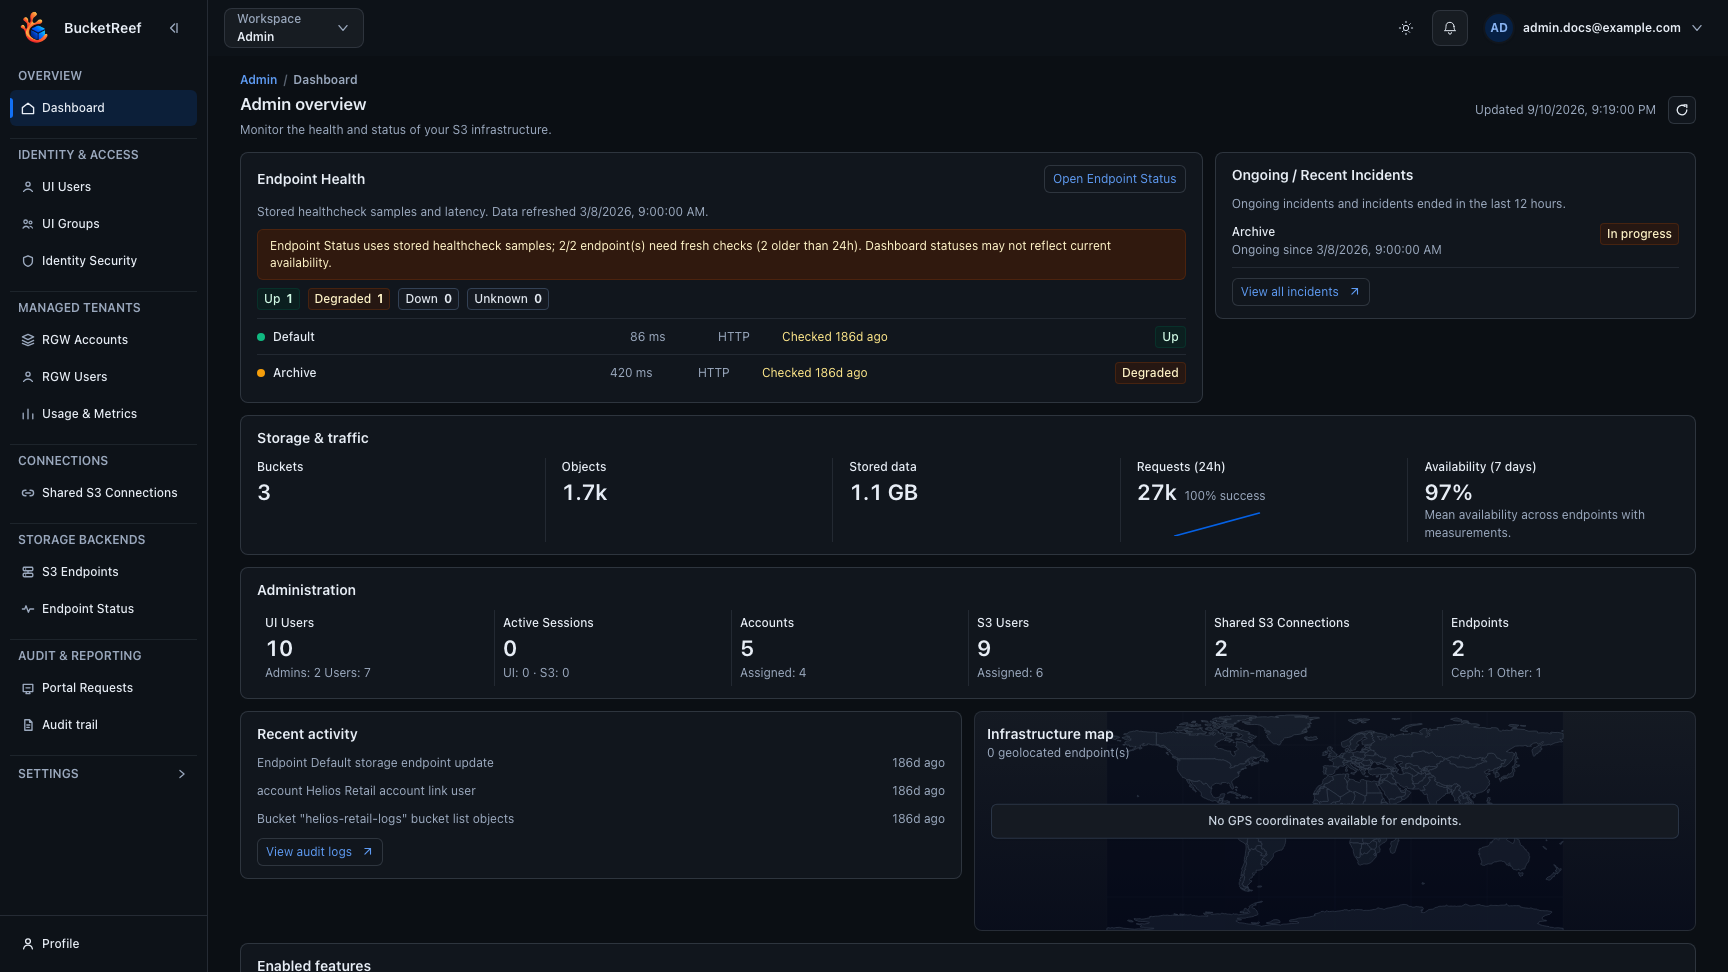
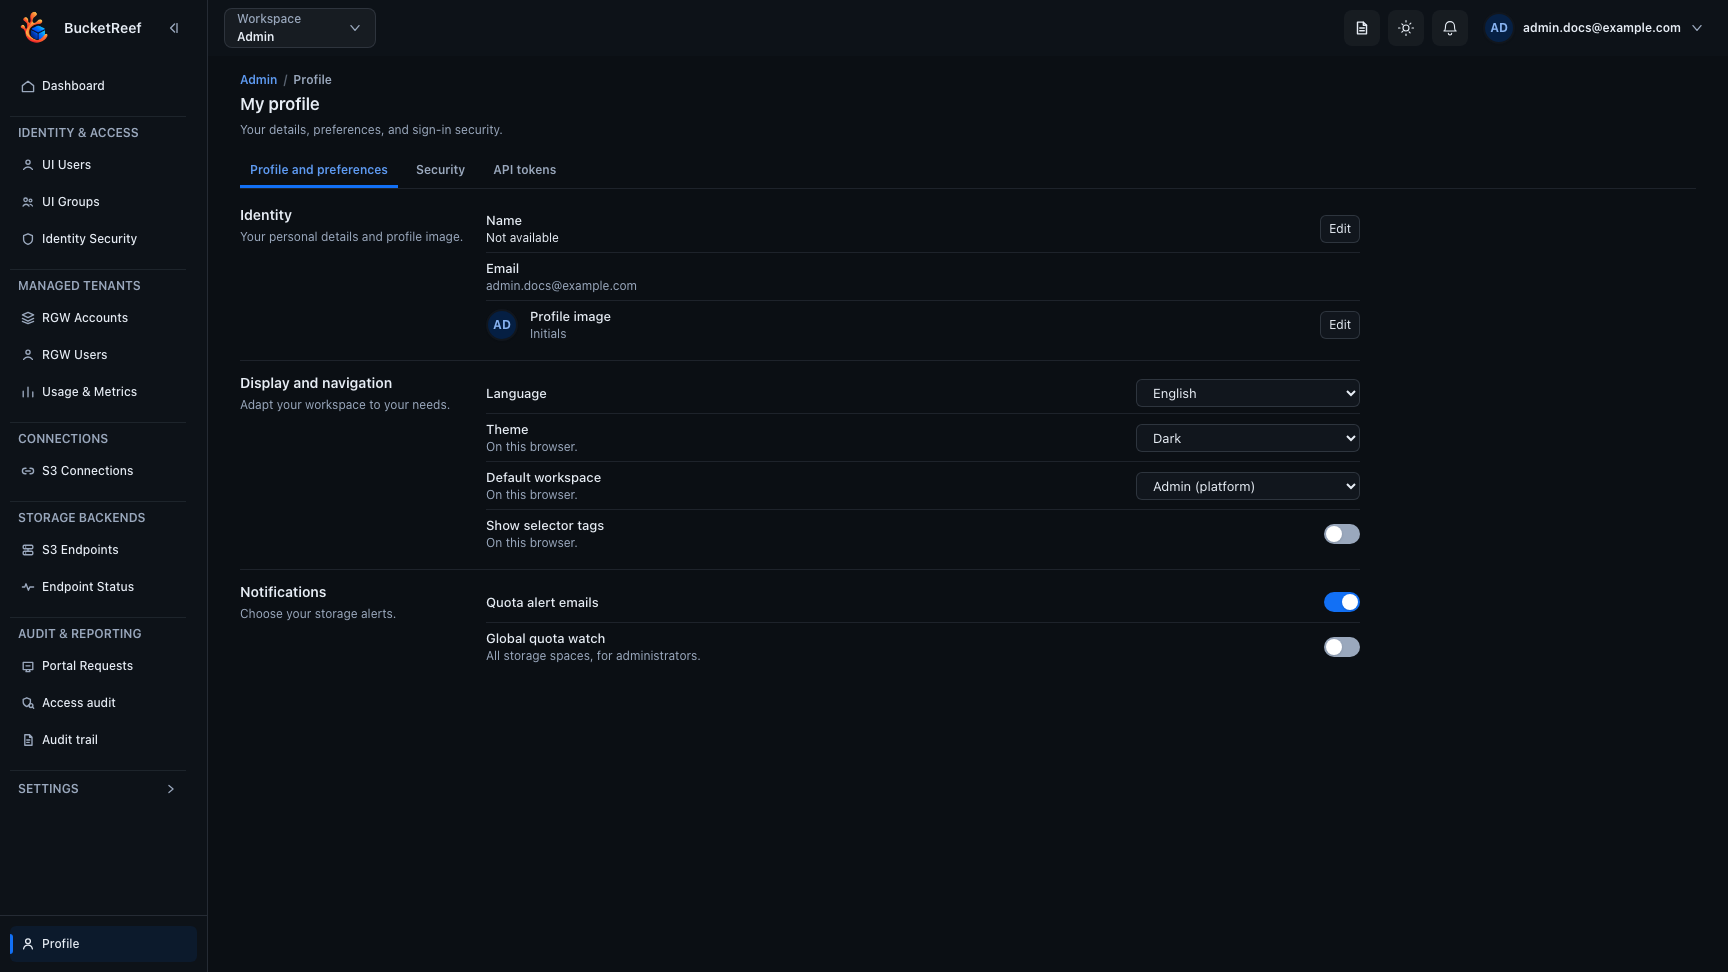
fix(docs): improve button contrast and refresh profile screenshots
Why:
Keep documentation buttons legible in dark mode and update the profile
illustrations to match the current interface.

What:
- Use the documentation link palette for content buttons and hover/focus states.
- Refresh the light and dark user overview screenshots.

Validation:
- Visually inspected both profile screenshots.
- Documentation screenshot check and strict documentation build passed during the preceding commit preparation with these files present.
- git diff --cached --check: passed.

diff --git a/doc/docs/assets/stylesheets/docs-theme.css b/doc/docs/assets/stylesheets/docs-theme.css
@@ -265,6 +265,22 @@ body {
   text-decoration: underline;
 }
 
+/* Material derives button foreground/border from the primary foreground token.
+ * Our header intentionally maps that token to the page background, which makes
+ * transparent buttons disappear until hover in dark mode. Keep content buttons
+ * on the explicit documentation link palette instead. */
+.md-typeset .md-button {
+  border-color: var(--docs-link);
+  color: var(--docs-link);
+}
+
+.md-typeset .md-button:is(:hover, :focus-visible) {
+  border-color: var(--docs-link);
+  background: var(--docs-link);
+  color: var(--docs-bg);
+  text-decoration: none;
+}
+
 .md-typeset blockquote {
   margin: 1rem 0;
   padding: 0.2rem 0.8rem;
